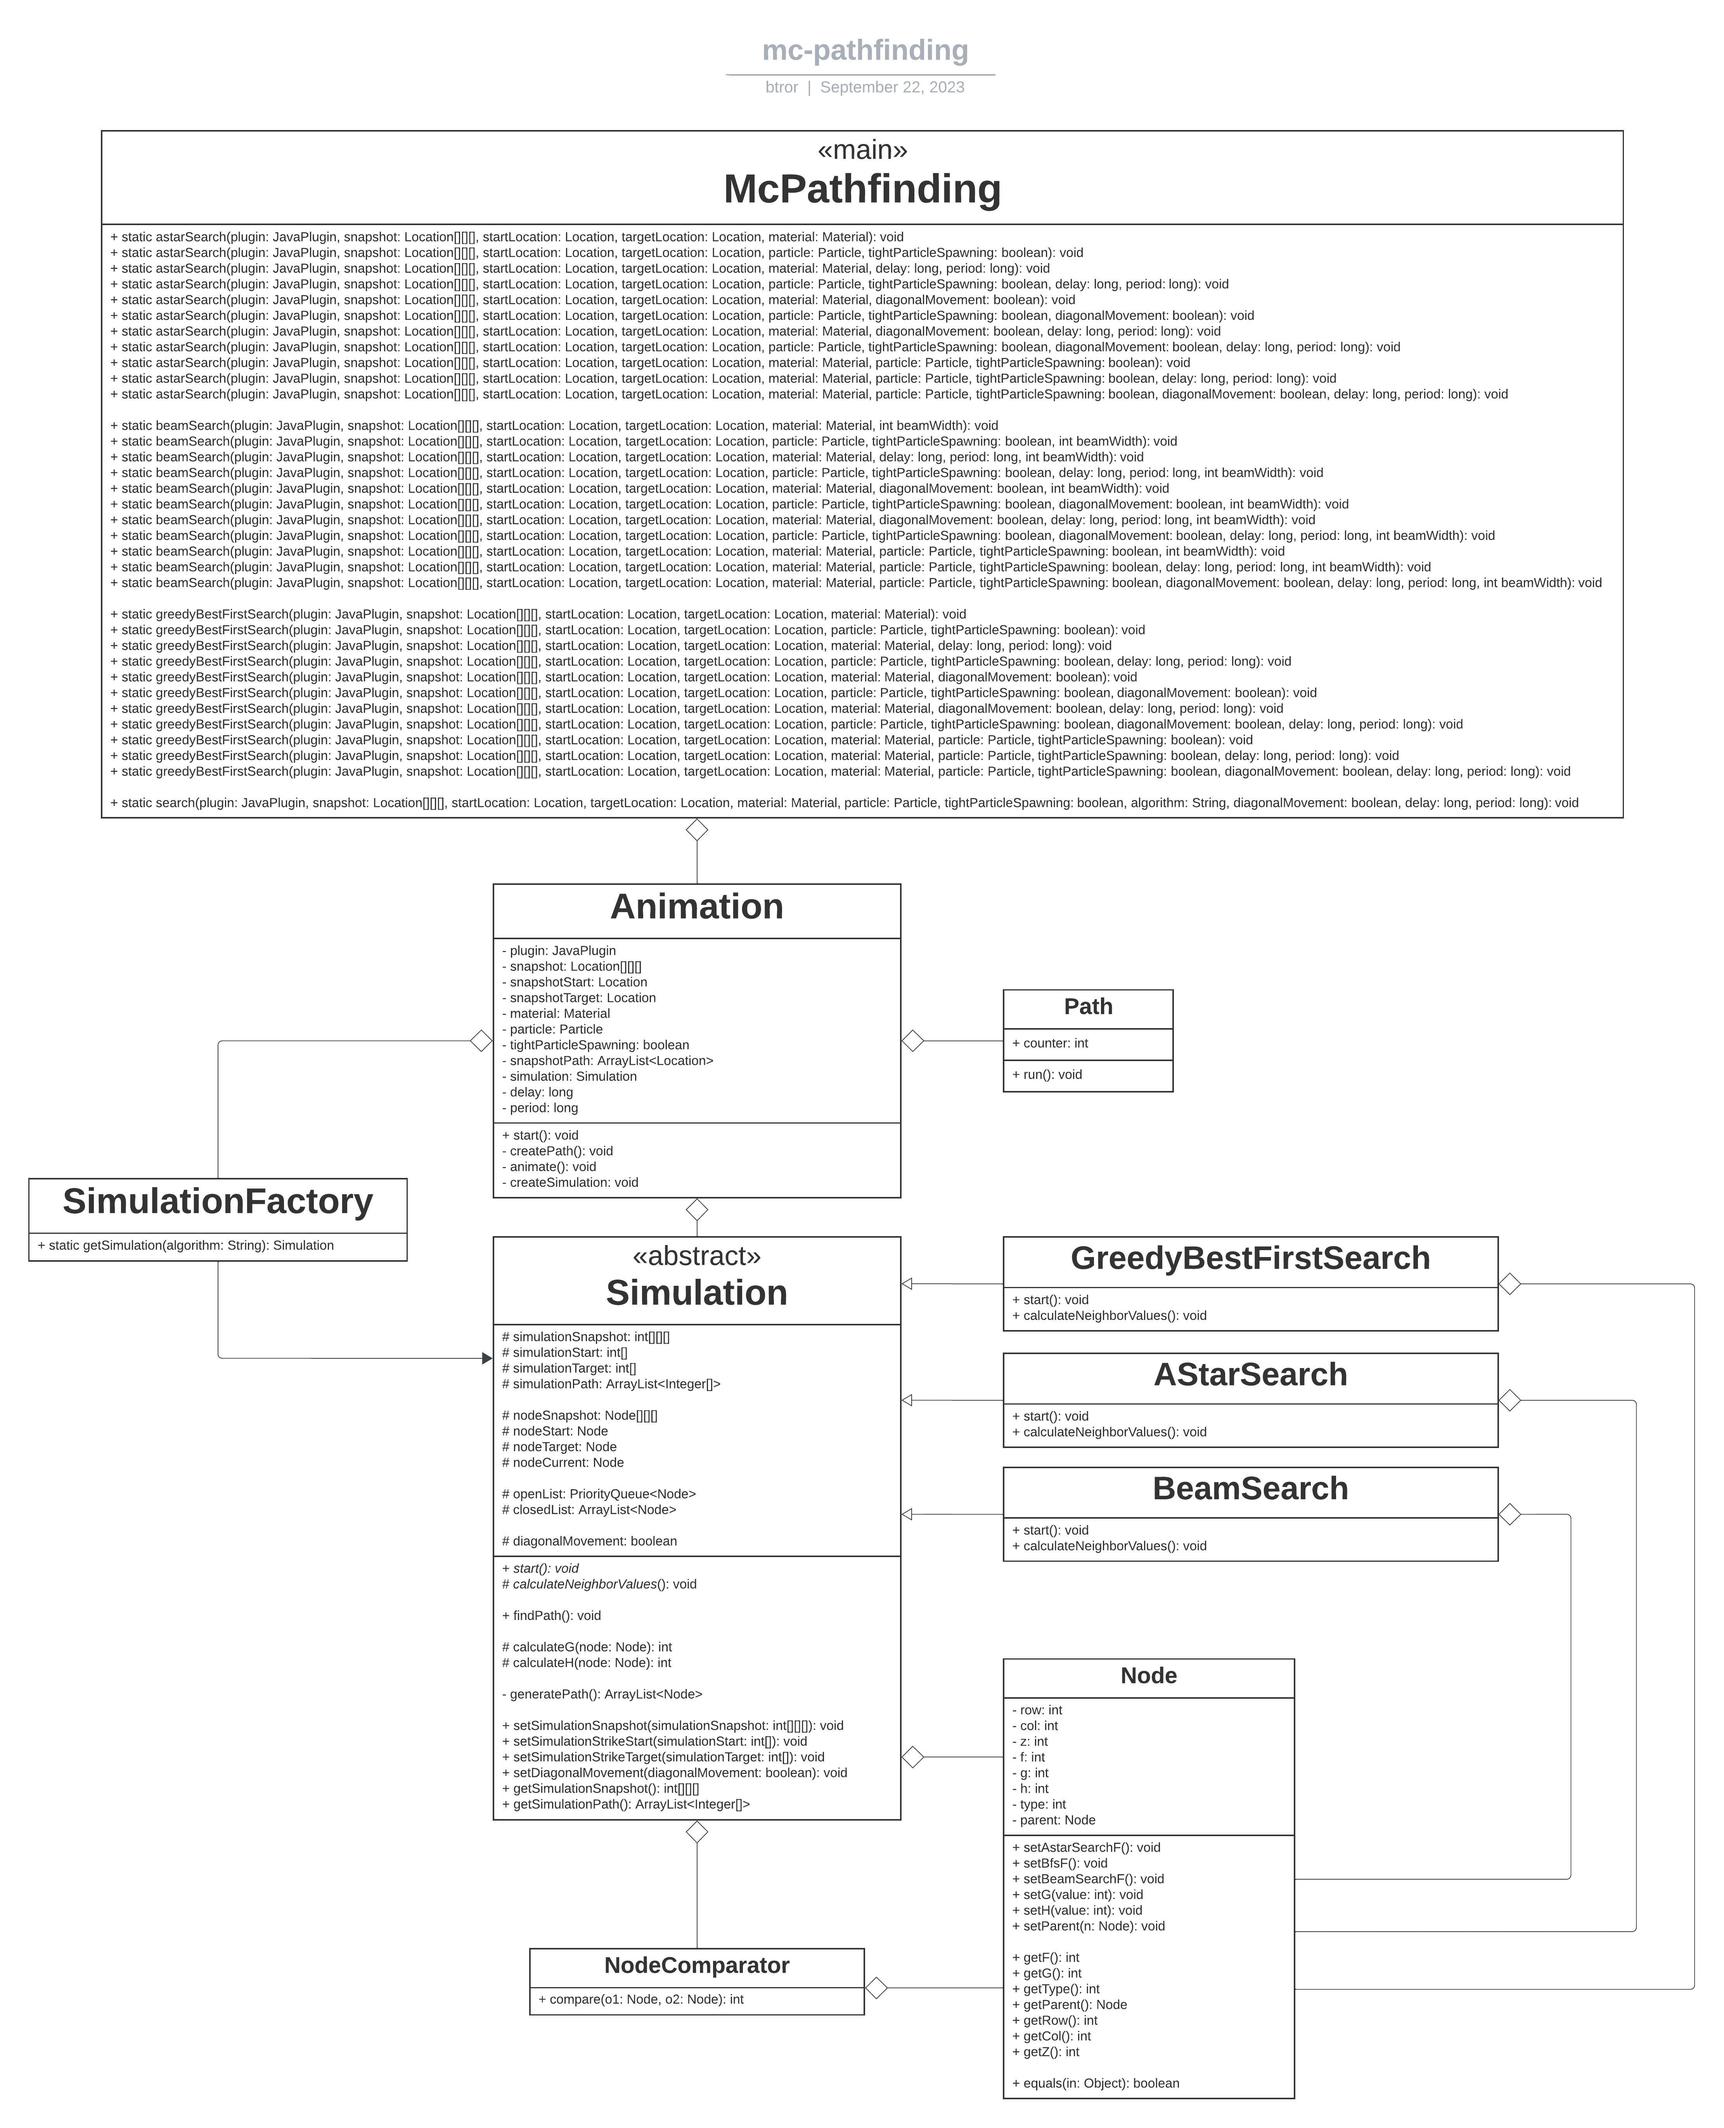
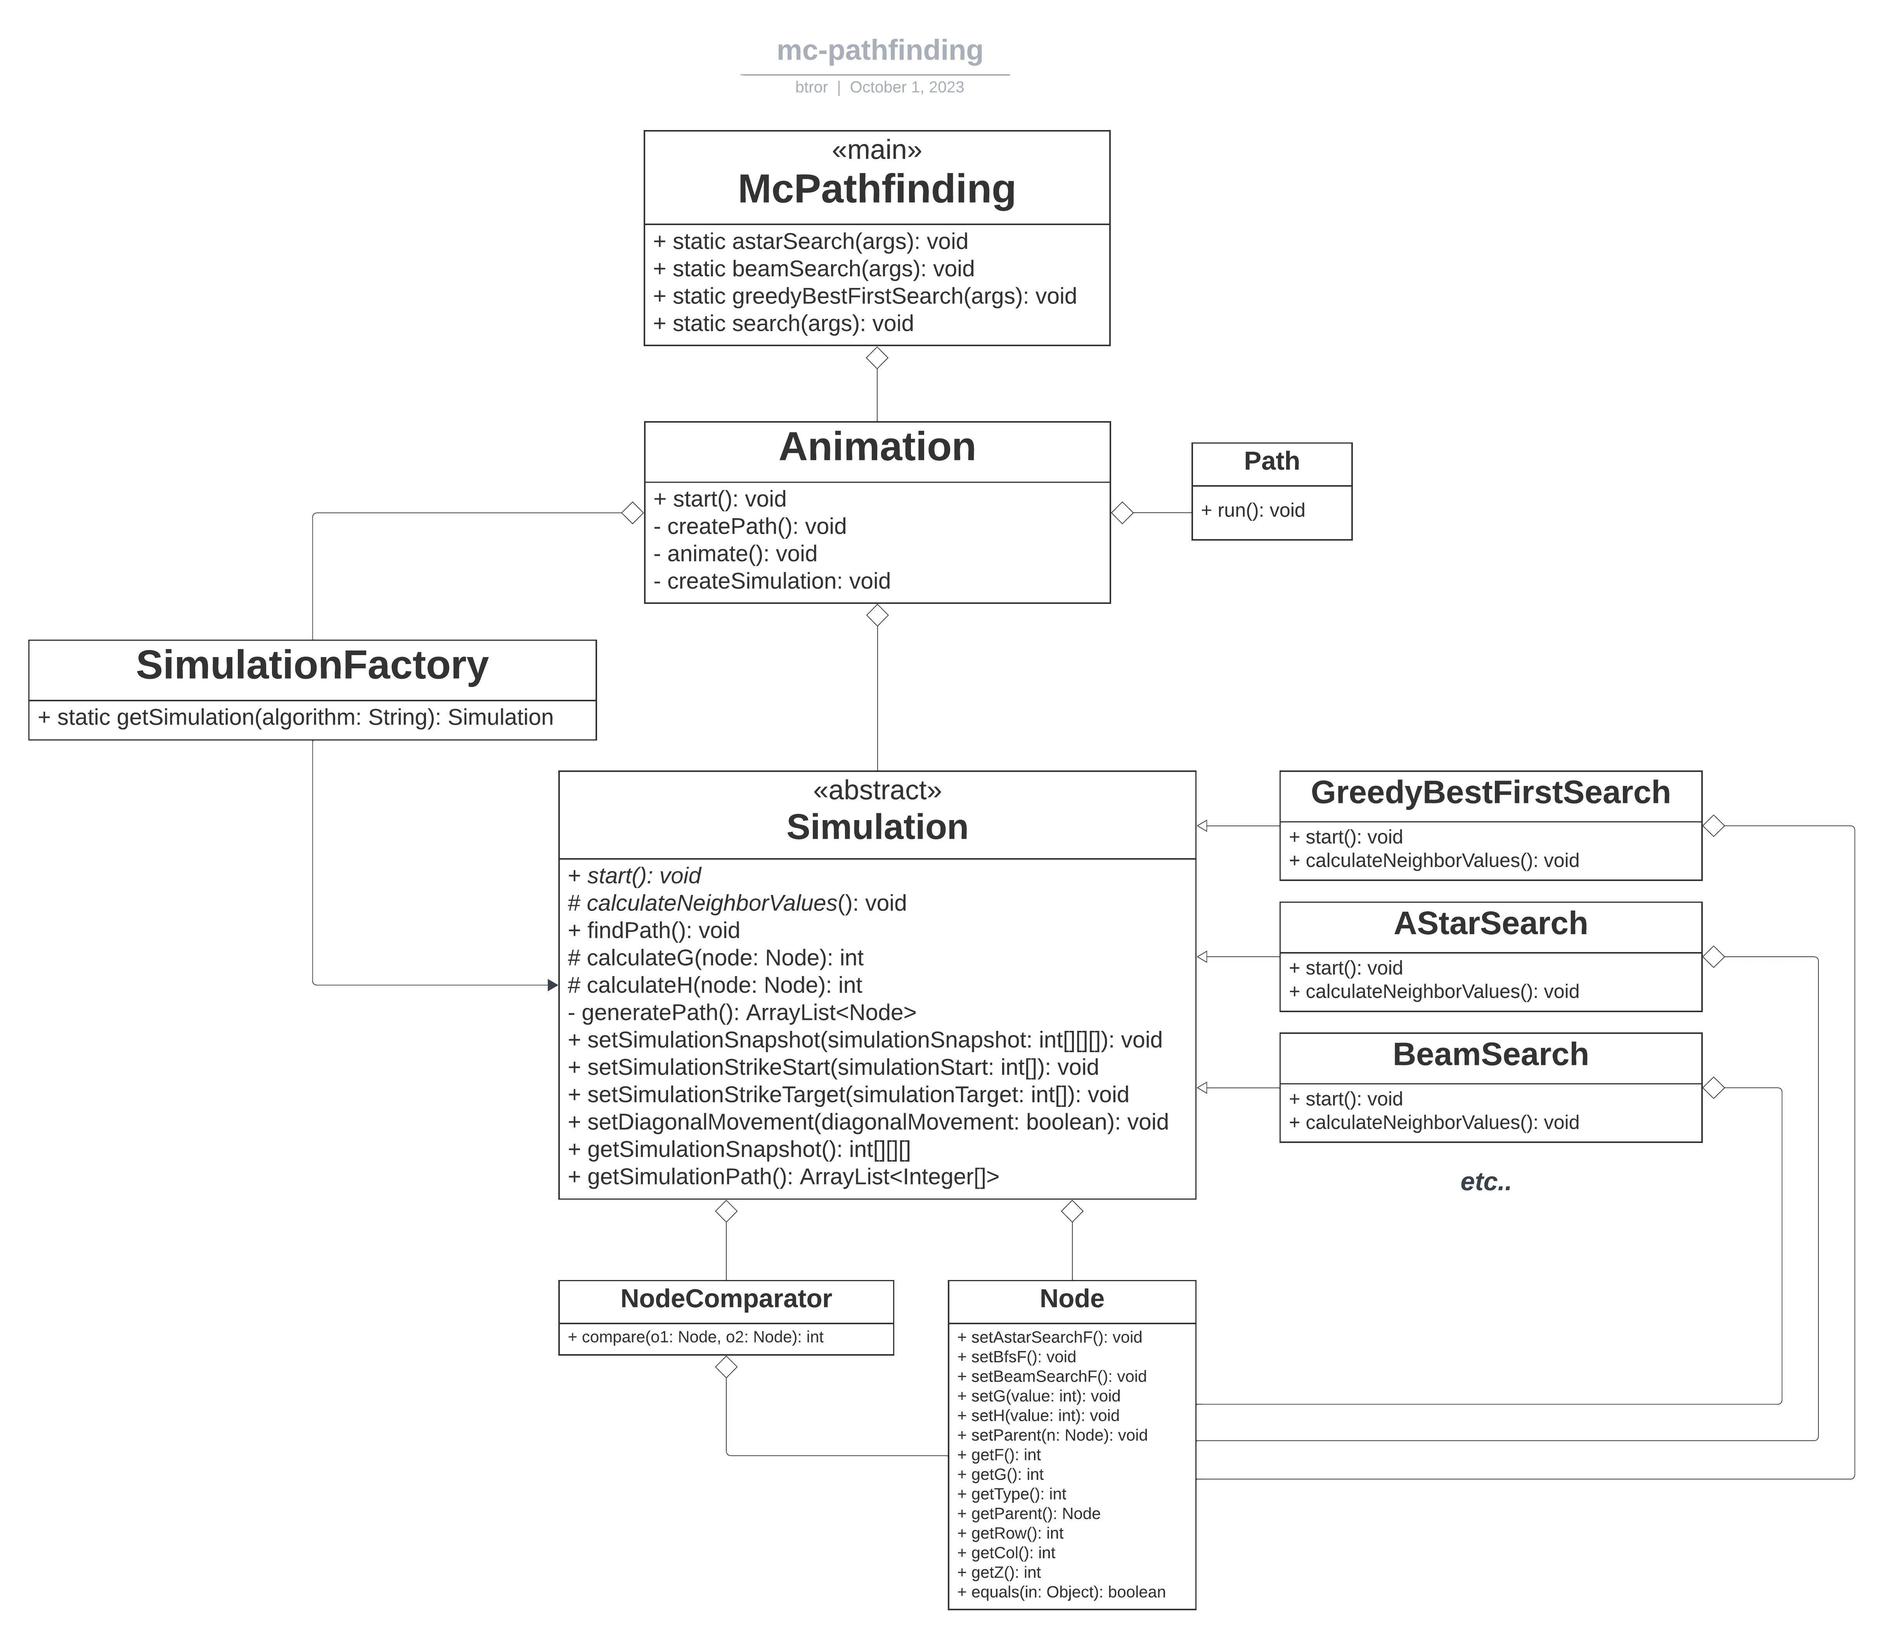
update readme and contributing

diff --git a/CONTRIBUTING.md b/CONTRIBUTING.md
@@ -31,9 +31,17 @@ Welcome to mc-pathfinding! We're thrilled that you're interested in contributing
 8. Create a Pull Request: Go to the GitHub page of your forked repository, switch to the branch with your changes, and click the "New Pull Request" button. Provide a clear title and description for your pull request.
 
 
-
 ## Code Style and Guidelines
-When adding new classes or files make sure to follow the [data model](#data-model).
+
+A few general rules:
+
+- When adding new classes or files make sure to follow the [data model](#data-model).
+- Make sure existing unit tests pass and add new ones if possible.
+  - For example, if you add a new pathfinding algorithm you'll need to add unit tests in the `SimulationTest` and `SimulationFactoryTest` files.
+- Make sure any new features work properly before creating a PR. You can do this by running your plugin on a local spigot server.
+  - Here's a useful tutorial on how to set up up a local server and configure plugins: TODO: insert YT video
+  - There's also a file for running testing commands: TODO: create command file to run stuff with everything commented out
+
 
 ## Data Model
 
@@ -65,6 +73,10 @@ Class `AStarSearch`
 
 - Implementation of the A\* pathfinding algorithm.
 
+Class `BeamSearch`
+
+- Implementation of the Beam Search pathfinding algorithm.
+
 Class `GreedyBestFirstSearch`
 
 - Implementation of the Greedy Best-First Search pathfinding algorithm.
@@ -86,7 +98,27 @@ Class `Animation`
 
 - Manages the visualization of the pathfinding process in Minecraft.
 - Animates the pathfinding steps, including block changes and particle effects.
+
 </details>
+
+<details>
+<summary>UML Diagram</summary>
+<br>
+
+[Lucidchart link](https://lucid.app/lucidchart/ff59dc30-19c4-4c85-8b49-0015e833c6c8/edit?viewport_loc=-1711%2C-1383%2C4042%2C2110%2C0_0&invitationId=inv_5760d042-41fd-4531-af6a-7d3142470512)
+
+<img src="src/main/resources/mc-pathfinding-uml.jpeg" width="540" height="600">
+</details>
+
+
+### Reporting Issues
+
+If you encounter a bug, have a feature request, or have questions about the project, please open an issue on our GitHub
+repository. When reporting an issue, be sure to:
+
+- Provide a descriptive title and clear description of the issue.
+- Specify the steps to reproduce the problem, if applicable.
+- Include any relevant error messages or screenshots.
 
 
 ## Issue Tracking
